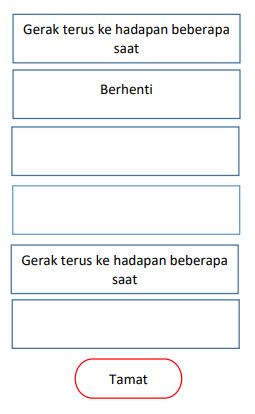
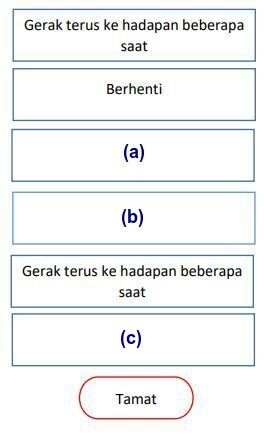
push_wawa_19feb

Changed region(s): [[0.0275, 0.0, 0.9882, 0.9855], [0.4392, 0.7536, 0.549, 0.8116]]

diff --git a/resources/views/content/Activity_3/ImplementasiAlgoritma.blade.php b/resources/views/content/Activity_3/ImplementasiAlgoritma.blade.php
@@ -83,24 +83,107 @@ Lengkapkan <strong>Nama Fungsi</strong> dan <strong>Definisi Fungsi</strong> di 
 </head>
 <body>
 
-<img src="{{asset('assets/img/activity_3/tugasan14.JPG')}}" class="img-fluid" alt="Responsive image">
+<img src="{{asset('assets/img/activity_3/tugasan14a.JPG')}}" class="img-fluid" alt="Responsive image">
+<img src="{{asset('assets/img/activity_3/tugasan14b.JPG')}}" class="img-fluid" alt="Responsive image">
+
 </body>
 </html>
 <p>
   <br>
   Sila nyatakan jawapan di ruang yang disediakan. <br>
 </p>
-<input type="text" id="tugasan14a" name="tugasan14_a" placeholder="(a)" style="width: 500px;"><br><br>
-<input type="text" id="tugasan14b" name="tugasan14_b" placeholder="(b)" style="width: 500px;"><br><br>
-<input type="text" id="tugasan14c" name="tugasan14_c" placeholder="(c)" style="width: 500px;"><br><br>
-<input type="text" id="tugasan14d" name="tugasan14_d" placeholder="(d)" style="width: 500px;"><br><br>
-<input type="text" id="tugasan14e" name="tugasan14_e" placeholder="(e)" style="width: 500px;"><br><br>
-<input type="text" id="tugasan14f" name="tugasan14_f" placeholder="(f)" style="width: 500px;"><br><br>
-<button type="submit" class="btn btn-primary">Submit</button>
+<input type="text" id="tugasan14a" name="tugasan14a" placeholder="(a)" style="width: 500px;"><br><br>
+<input type="text" id="tugasan14b" name="tugasan14b" placeholder="(b)" style="width: 500px;"><br><br>
+<input type="text" id="tugasan14c" name="tugasan14c" placeholder="(c)" style="width: 500px;"><br><br>
+<input type="text" id="tugasan14d" name="tugasan14d" placeholder="(d)" style="width: 500px;"><br><br>
+<input type="text" id="tugasan14e" name="tugasan14e" placeholder="(e)" style="width: 500px;"><br><br>
+<input type="text" id="tugasan14f" name="tugasan14f" placeholder="(f)" style="width: 500px;"><br><br>
+<input type="text" id="tugasan14g" name="tugasan14g" placeholder="(g)" style="width: 500px;"><br><br>
+<input type="text" id="tugasan14h" name="tugasan14h" placeholder="(h)" style="width: 500px;"><br><br>
+<input type="text" id="tugasan14i" name="tugasan14i" placeholder="(i)" style="width: 500px;"><br><br>
+<input type="text" id="tugasan14j" name="tugasan14j" placeholder="(j)" style="width: 500px;"><br><br>
+<input type="text" id="tugasan14k" name="tugasan14k" placeholder="(k)" style="width: 500px;"><br><br>
+<input type="text" id="tugasan14l" name="tugasan14l" placeholder="(l)" style="width: 500px;"><br><br>
+<input type="text" id="tugasan14m" name="tugasan14m" placeholder="(m)" style="width: 500px;"><br><br>
+
+<button type="submit" onclick="checkAnswers()" class="btn btn-primary">Submit</button>
 
 
         <!-- <a href="javascript:void(0)" class="btn btn-outline-primary">Go somewhere</a> -->
       </div>
     </div>
   </div>
+
+
+  <script>
+    // Define correct answers
+    var tugasan14Answers = {
+      tugasan14a: "abc",
+      tugasan14b: "def",
+      tugasan14c: "def", 
+      tugasan14d: "abc",
+      tugasan14e: "def",
+      tugasan14f: "def",        
+      tugasan14g: "abc",
+      tugasan14h: "def",
+      tugasan14i: "def",        
+      tugasan14j: "abc",
+      tugasan14k: "def",
+      tugasan14l: "def",        
+      tugasan14m: "abc",
+                     
+        // Add other correct answers as needed
+    };
+
+    // Save correct answers to local storage
+    localStorage.setItem('tugasan14Answers', JSON.stringify(tugasan14Answers));
+
+    // Function to save user input to local storage
+    function saveTugasan14Input() {
+        var tugasan14Input = { 
+          tugasan14a: $('#tugasan14a').val(),
+          tugasan14b: $('#tugasan14b').val(),
+          tugasan14c: $('#tugasan14c').val(),
+          tugasan14d: $('#tugasan14d').val(),
+          tugasan14e: $('#tugasan14e').val(),
+          tugasan14f: $('#tugasan14f').val(),
+          tugasan14g: $('#tugasan14g').val(),
+          tugasan14h: $('#tugasan14h').val(),
+          tugasan14i: $('#tugasan14i').val(),
+          tugasan14j: $('#tugasan14j').val(),
+          tugasan14k: $('#tugasan14k').val(),
+          tugasan14l: $('#tugasan14l').val(),
+          tugasan14m: $('#tugasan14m').val(),
+          
+        };
+
+        localStorage.setItem('tugasan14Input', JSON.stringify(tugasan14Input));
+    }
+
+    // Function to compare user input with correct answers
+    function checkAnswers() {
+        saveTugasan14Input(); // Save user input before comparing
+
+        var storedTugasan14Answers = JSON.parse(localStorage.getItem('tugasan14Answers'));
+        var storedTugasan14Input = JSON.parse(localStorage.getItem('tugasan14Input'));
+
+        var isCorrect = true;
+        for (var key in storedTugasan14Input) {
+            if (storedTugasan14Input.hasOwnProperty(key)) {
+                if (storedTugasan14Input[key] !== storedTugasan14Answers[key]) {
+                    isCorrect = false;
+                    break;
+                }
+            }
+        }
+
+        if (isCorrect) {
+            alert("Congratulations! Your answers are correct.");
+            // You can perform additional actions here, such as redirecting the user to a success page.
+        } else {
+            alert("Sorry, some of your answers are incorrect. Please try again.");
+            // You can perform additional actions here, such as highlighting the incorrect answers or providing feedback to the user.
+        }
+    }
+</script>
 @endsection

diff --git a/resources/views/content/Activity_4/PerjalananBerbeza.blade.php b/resources/views/content/Activity_4/PerjalananBerbeza.blade.php
@@ -210,15 +210,7 @@ sehingga 4.1.4 dibawah.
         Lukis carta alir untuk penyelesaian masalah. Rujuk lampiran D <br> <br>
 
       
-       <!DOCTYPE html>
-<html lang="en">
-<head>
-    <meta charset="UTF-8">
-    <meta name="viewport" content="width=device-width, initial-scale=1.0">
-    <title>Whiteboard</title>
-    <link rel="stylesheet" href="https://cdnjs.cloudflare.com/ajax/libs/font-awesome/6.0.0/css/all.min.css">
-</head>
-<body>
+        <link rel="stylesheet" href="https://cdnjs.cloudflare.com/ajax/libs/font-awesome/6.0.0/css/all.min.css">
 
 <canvas id="whiteboard2" width="500" height="400" style="border: 1px solid #000;"></canvas>
 <br>
@@ -229,53 +221,19 @@ sehingga 4.1.4 dibawah.
     <i class="fas fa-eraser"></i>
 </button>
 <button id="clearButton2" onclick="clearCanvas2()">
-    <i class="fas fa-trash-alt"></i>
+    <i class="fas fa-trash-alt"></i> 
 </button>
-<input type="text" id="textInput" placeholder="Type text here">
+
 <script>
     const canvas2 = document.getElementById('whiteboard2');
     const context2 = canvas2.getContext('2d');
-    const textInput = document.getElementById('textInput');
     let drawing2 = false;
     let erasing2 = false;
-    let isTyping = false;
-    let textObjects = [];
 
-    canvas2.addEventListener('mousedown', startAction);
-    canvas2.addEventListener('mousemove', performAction);
-    canvas2.addEventListener('mouseup', stopAction);
-    canvas2.addEventListener('mouseout', stopAction);
-
-    function startAction(e) {
-        if (isTyping) return;
-        if (drawing2) {
-            startDrawing2(e);
-        } else {
-            isTyping = true;
-            const rect = canvas2.getBoundingClientRect();
-            const x = e.clientX - rect.left;
-            const y = e.clientY - rect.top;
-            const text = textInput.value;
-            textObjects.push({ x, y, text });
-            drawTextObjects();
-        }
-    }
-
-    function performAction(e) {
-        if (isTyping) return;
-        if (drawing2) {
-            draw2(e);
-        }
-    }
-
-    function stopAction(e) {
-        if (isTyping) return;
-        if (drawing2) {
-            stopDrawing2();
-        } else {
-            isTyping = false;
-        }
-    }
+    canvas2.addEventListener('mousedown', startDrawing2);
+    canvas2.addEventListener('mousemove', draw2);
+    canvas2.addEventListener('mouseup', stopDrawing2);
+    canvas2.addEventListener('mouseout', stopDrawing2);
 
     function startDrawing2(e) {
         if (erasing2) {
@@ -337,49 +295,8 @@ sehingga 4.1.4 dibawah.
 
     function clearCanvas2() {
         context2.clearRect(0, 0, canvas2.width, canvas2.height);
-        textObjects = [];
-        drawTextObjects();
     }
-
-    function drawTextObjects() {
-        context2.clearRect(0, 0, canvas2.width, canvas2.height);
-        textObjects.forEach(textObj => {
-            context2.font = '14px Arial';
-            context2.fillText(textObj.text, textObj.x, textObj.y);
-        });
-    }
-
-    canvas2.addEventListener('click', function(e) {
-        const rect = canvas2.getBoundingClientRect();
-        const mouseX = e.clientX - rect.left;
-        const mouseY = e.clientY - rect.top;
-
-        textObjects.forEach(textObj => {
-            const textWidth = context2.measureText(textObj.text).width;
-            const textHeight = 14; // Approximate height of the text
-
-            if (
-                mouseX >= textObj.x &&
-                mouseX <= textObj.x + textWidth &&
-                mouseY >= textObj.y - textHeight &&
-                mouseY <= textObj.y
-            ) {
-                textInput.value = textObj.text;
-                textInput.focus();
-
-                textInput.oninput = function() {
-                    textObj.text = this.value;
-                    drawTextObjects();
-                };
-            }
-        });
-    });
-
 </script>
-
-</body>
-</html>
-
 
 </p>
 
